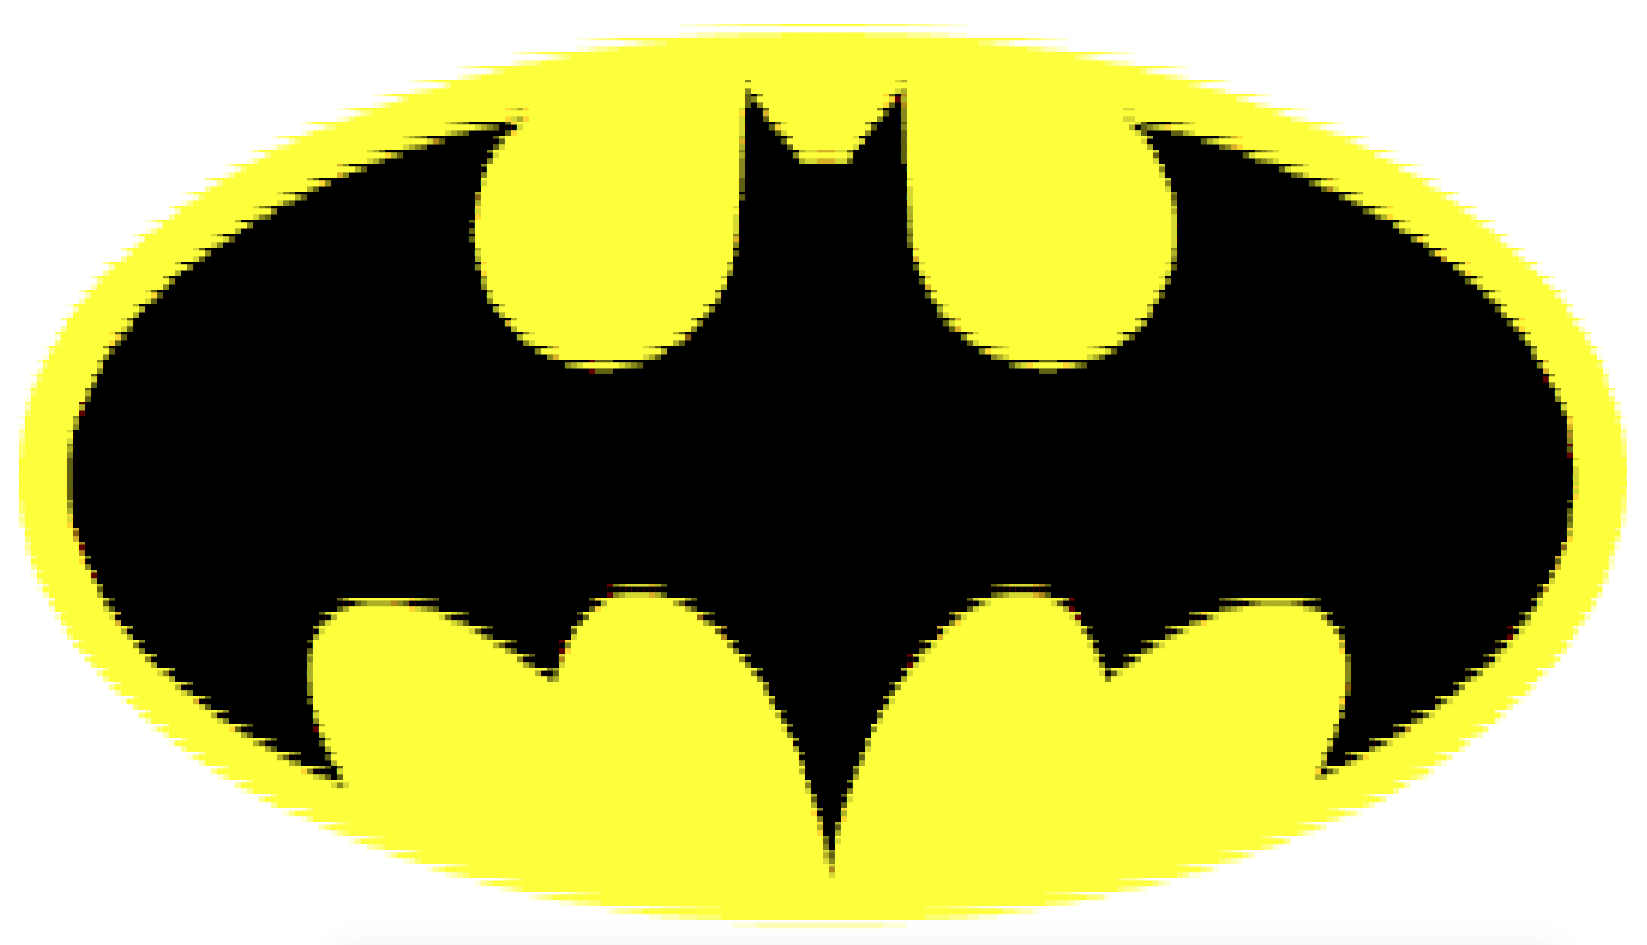
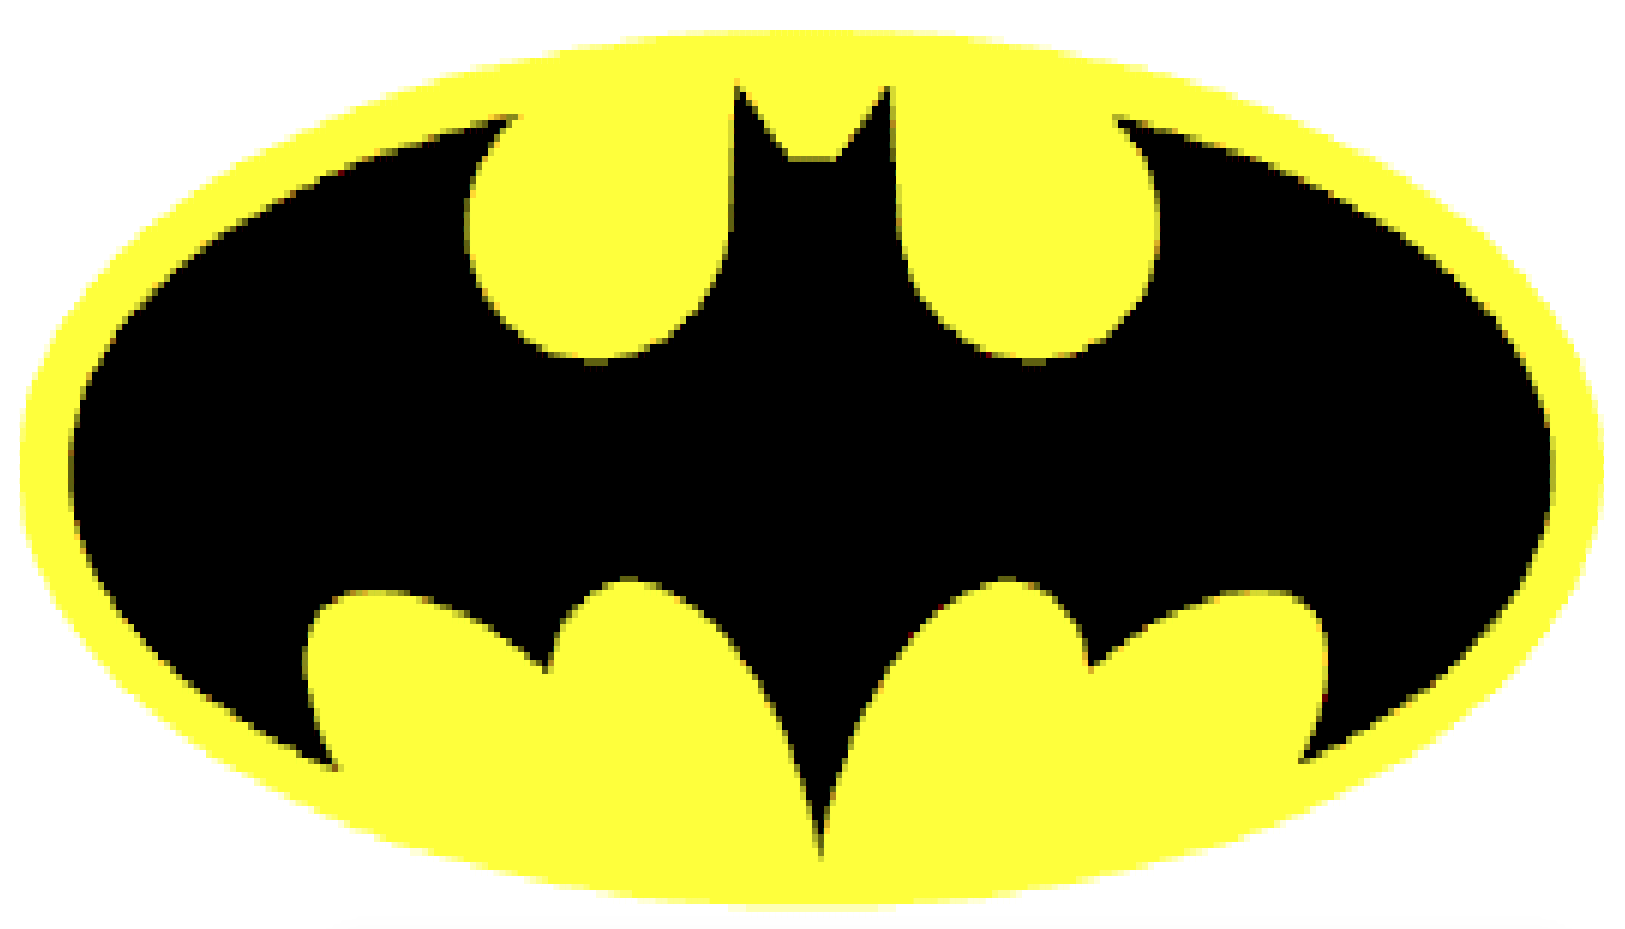
Use ▄ instead of ▀

diff --git a/main.go b/main.go
@@ -34,7 +34,7 @@ func draw(img image.Image) {
 		for x := 0; x < w; x++ {
 			// Calculate average color for the corresponding image rectangle
 			// fitting in this cell. We use a half-block trick, wherein the
-			// upper half of the cell displays the character ▀, effectively
+			// lower half of the cell displays the character ▄, effectively
 			// doubling the resolution of the canvas.
 			startX, startY, endX, endY := imgArea(x, y, imgScale, whratio)
 
@@ -44,7 +44,7 @@ func draw(img image.Image) {
 			r, g, b = avgRGB(img, startX, (startY+endY)/2, endX, endY)
 			colorDown := termbox.Attribute(termColor(r, g, b))
 
-			termbox.SetCell(x, y, '▀', colorUp, colorDown)
+			termbox.SetCell(x, y, '▄', colorDown, colorUp)
 		}
 	}
 	termbox.Flush()
